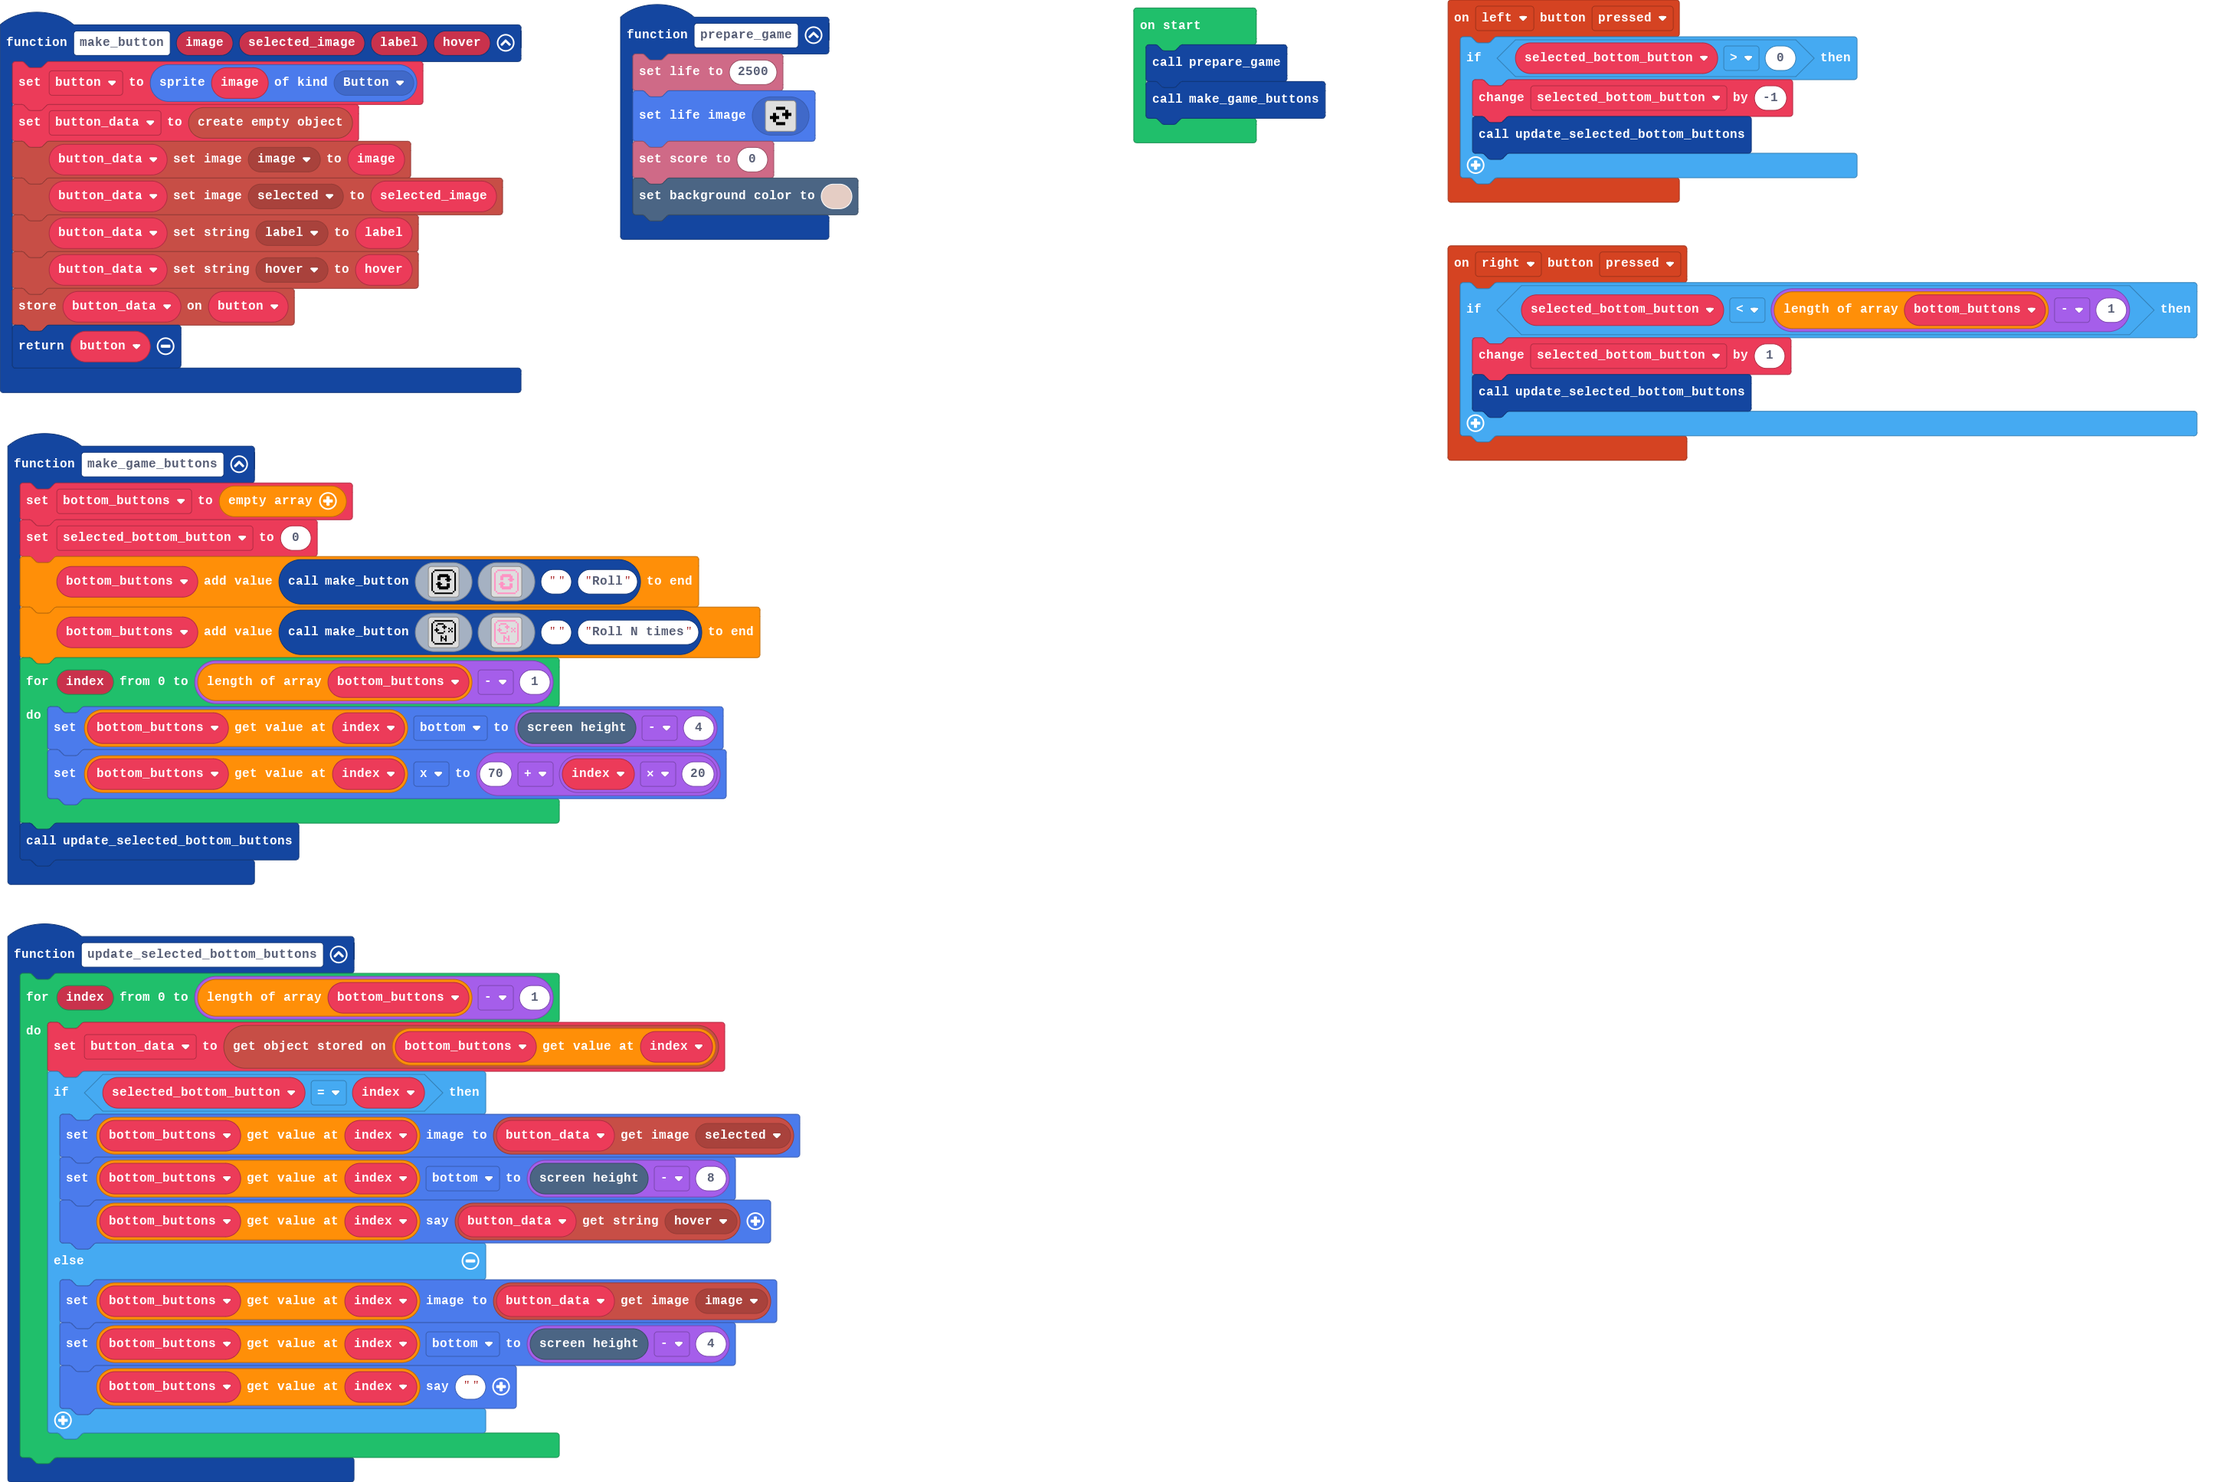
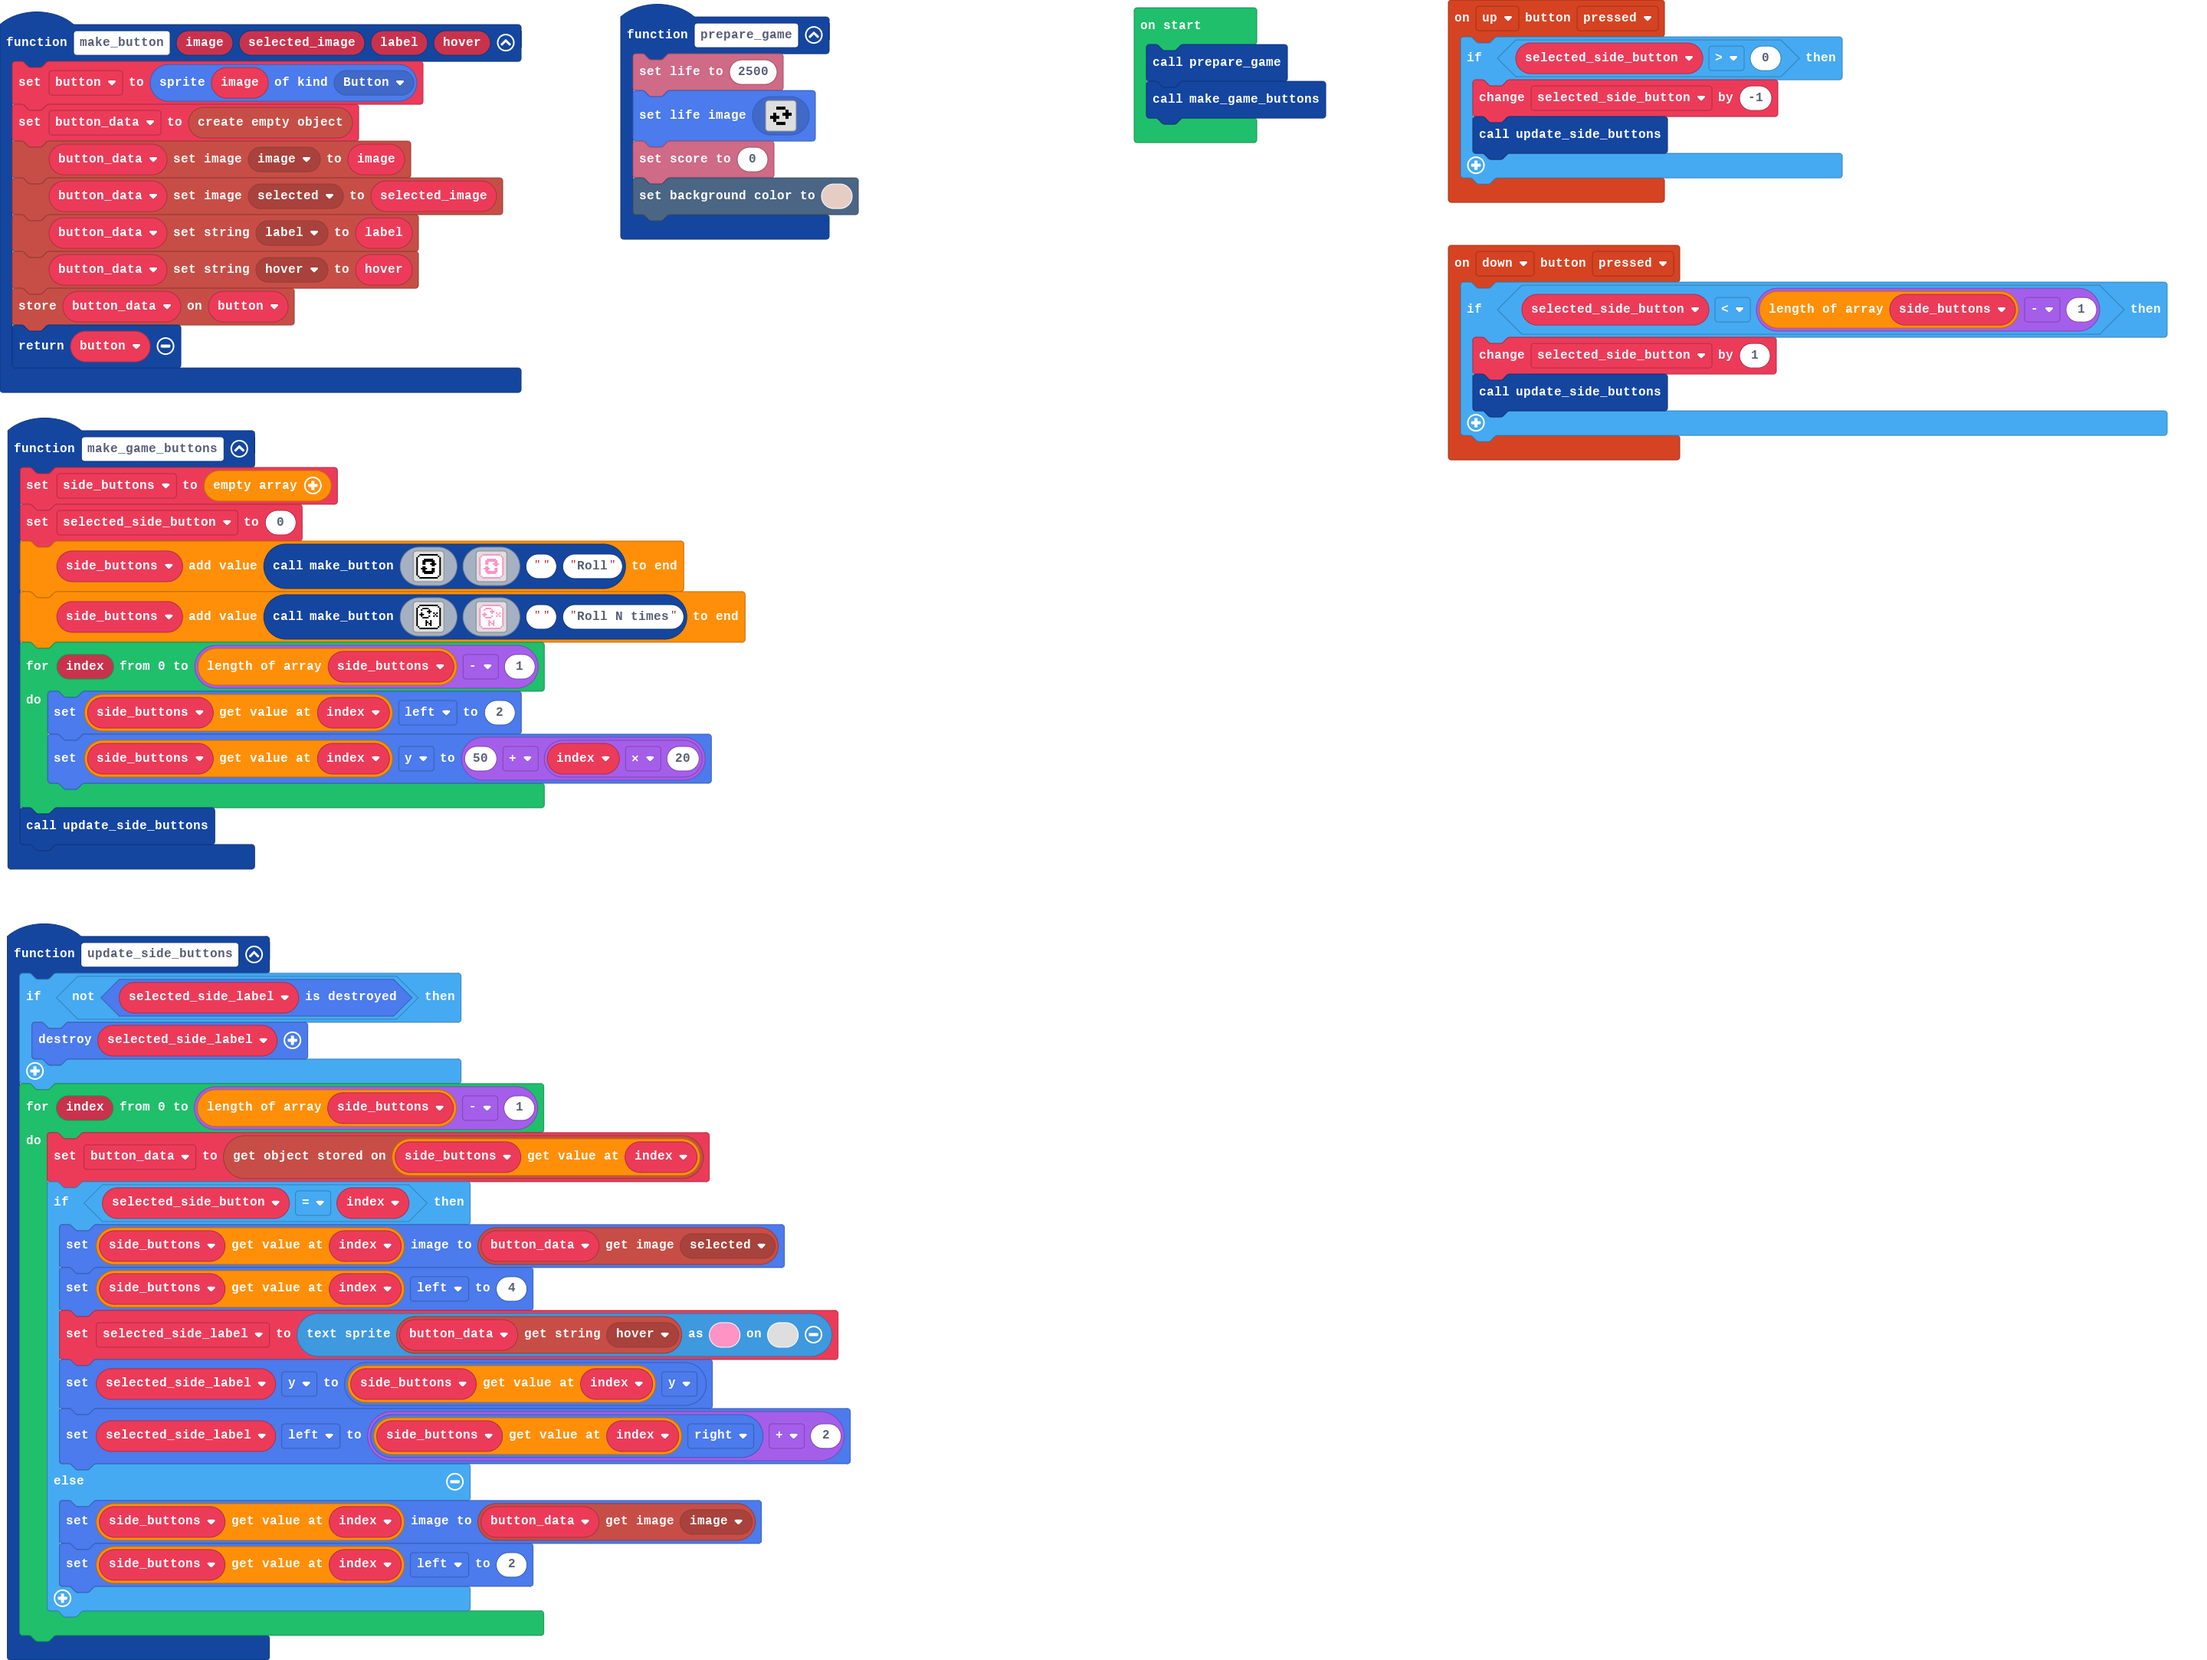
Move buttons back to side

Changed region(s): [[0.0, 0.0, 0.4062, 1.0], [0.5, 0.0, 1.0, 0.3102]]

diff --git a/images.g.ts b/images.g.ts
@@ -17,77 +17,77 @@ f f f . . f .
             case "image2":
             case "roll_button":return img`
 . . f f f f f f f f f f f f . . 
-. f . . . . . . . . . . . . f . 
-f . . . . . . . . . . . . . . f 
-f . . . . f f f f f f . . . . f 
-f . . . f f f f f f f f . . . f 
-f . . . f f . . . . f f . . . f 
-f . . . f f . . . f f f f . . f 
-f . . . . . . . . . f f . . . f 
-f . . . f f . . . . . . . . . f 
-f . . f f f f . . . f f . . . f 
-f . . . f f . . . . f f . . . f 
-f . . . f f f f f f f f . . . f 
-f . . . . f f f f f f . . . . f 
-f . . . . . . . . . . . . . . f 
-. f . . . . . . . . . . . . f . 
+. f 1 1 1 1 1 1 1 1 1 1 1 1 f . 
+f 1 1 1 1 1 1 1 1 1 1 1 1 1 1 f 
+f 1 1 1 1 f f f f f f 1 1 1 1 f 
+f 1 1 1 f f f f f f f f 1 1 1 f 
+f 1 1 1 f f 1 1 1 1 f f 1 1 1 f 
+f 1 1 1 f f 1 1 1 f f f f 1 1 f 
+f 1 1 1 1 1 1 1 1 1 f f 1 1 1 f 
+f 1 1 1 f f 1 1 1 1 1 1 1 1 1 f 
+f 1 1 f f f f 1 1 1 f f 1 1 1 f 
+f 1 1 1 f f 1 1 1 1 f f 1 1 1 f 
+f 1 1 1 f f f f f f f f 1 1 1 f 
+f 1 1 1 1 f f f f f f 1 1 1 1 f 
+f 1 1 1 1 1 1 1 1 1 1 1 1 1 1 f 
+. f 1 1 1 1 1 1 1 1 1 1 1 1 f . 
+. . f f f f f f f f f f f f . . 
+`;
+            case "image4":
+            case "roll_x_times_button":return img`
+. . f f f f f f f f f f f f . . 
+. f 1 1 1 1 1 1 1 1 1 1 1 1 f . 
+f 1 1 1 f f f f 1 1 1 1 1 1 1 f 
+f 1 1 f 1 1 1 1 f 1 1 1 1 1 1 f 
+f 1 1 1 1 1 1 f f f 1 1 1 1 1 f 
+f 1 1 f 1 1 1 1 f 1 1 f 1 f 1 f 
+f 1 f f f 1 1 1 1 1 1 1 f 1 1 f 
+f 1 1 f 1 1 1 1 f 1 1 f 1 f 1 f 
+f 1 1 1 f f f f 1 1 1 1 1 1 1 f 
+f 1 1 1 1 1 1 1 1 1 1 1 1 1 1 f 
+f 1 1 1 1 1 f 1 1 f 1 1 1 1 1 f 
+f 1 1 1 1 1 f f 1 f 1 1 1 1 1 f 
+f 1 1 1 1 1 f 1 f f 1 1 1 1 1 f 
+f 1 1 1 1 1 f 1 1 f 1 1 1 1 1 f 
+. f 1 1 1 1 1 1 1 1 1 1 1 1 f . 
 . . f f f f f f f f f f f f . . 
 `;
             case "image3":
             case "roll_button_selected":return img`
 . . 3 3 3 3 3 3 3 3 3 3 3 3 . . 
-. 3 . . . . . . . . . . . . 3 . 
-3 . . . . . . . . . . . . . . 3 
-3 . . . . 3 3 3 3 3 3 . . . . 3 
-3 . . . 3 3 3 3 3 3 3 3 . . . 3 
-3 . . . 3 3 . . . . 3 3 . . . 3 
-3 . . . 3 3 . . . 3 3 3 3 . . 3 
-3 . . . . . . . . . 3 3 . . . 3 
-3 . . . 3 3 . . . . . . . . . 3 
-3 . . 3 3 3 3 . . . 3 3 . . . 3 
-3 . . . 3 3 . . . . 3 3 . . . 3 
-3 . . . 3 3 3 3 3 3 3 3 . . . 3 
-3 . . . . 3 3 3 3 3 3 . . . . 3 
-3 . . . . . . . . . . . . . . 3 
-. 3 . . . . . . . . . . . . 3 . 
+. 3 1 1 1 1 1 1 1 1 1 1 1 1 3 . 
+3 1 1 1 1 1 1 1 1 1 1 1 1 1 1 3 
+3 1 1 1 1 3 3 3 3 3 3 1 1 1 1 3 
+3 1 1 1 3 3 3 3 3 3 3 3 1 1 1 3 
+3 1 1 1 3 3 1 1 1 1 3 3 1 1 1 3 
+3 1 1 1 3 3 1 1 1 3 3 3 3 1 1 3 
+3 1 1 1 1 1 1 1 1 1 3 3 1 1 1 3 
+3 1 1 1 3 3 1 1 1 1 1 1 1 1 1 3 
+3 1 1 3 3 3 3 1 1 1 3 3 1 1 1 3 
+3 1 1 1 3 3 1 1 1 1 3 3 1 1 1 3 
+3 1 1 1 3 3 3 3 3 3 3 3 1 1 1 3 
+3 1 1 1 1 3 3 3 3 3 3 1 1 1 1 3 
+3 1 1 1 1 1 1 1 1 1 1 1 1 1 1 3 
+. 3 1 1 1 1 1 1 1 1 1 1 1 1 3 . 
 . . 3 3 3 3 3 3 3 3 3 3 3 3 . . 
-`;
-            case "image4":
-            case "roll_x_times_button":return img`
-. . f f f f f f f f f f f f . . 
-. f . . . . . . . . . . . . f . 
-f . . . f f f f . . . . . . . f 
-f . . f . . . . f . . . . . . f 
-f . . . . . . f f f . . . . . f 
-f . . f . . . . f . . f . f . f 
-f . f f f . . . . . . . f . . f 
-f . . f . . . . f . . f . f . f 
-f . . . f f f f . . . . . . . f 
-f . . . . . . . . . . . . . . f 
-f . . . . . f . . f . . . . . f 
-f . . . . . f f . f . . . . . f 
-f . . . . . f . f f . . . . . f 
-f . . . . . f . . f . . . . . f 
-. f . . . . . . . . . . . . f . 
-. . f f f f f f f f f f f f . . 
 `;
             case "image5":
             case "roll_x_times_button_selected":return img`
 . . 3 3 3 3 3 3 3 3 3 3 3 3 . . 
-. 3 . . . . . . . . . . . . 3 . 
-3 . . . 3 3 3 3 . . . . . . . 3 
-3 . . 3 . . . . 3 . . . . . . 3 
-3 . . . . . . 3 3 3 . . . . . 3 
-3 . . 3 . . . . 3 . . 3 . 3 . 3 
-3 . 3 3 3 . . . . . . . 3 . . 3 
-3 . . 3 . . . . 3 . . 3 . 3 . 3 
-3 . . . 3 3 3 3 . . . . . . . 3 
-3 . . . . . . . . . . . . . . 3 
-3 . . . . . 3 . . 3 . . . . . 3 
-3 . . . . . 3 3 . 3 . . . . . 3 
-3 . . . . . 3 . 3 3 . . . . . 3 
-3 . . . . . 3 . . 3 . . . . . 3 
-. 3 . . . . . . . . . . . . 3 . 
+. 3 1 1 1 1 1 1 1 1 1 1 1 1 3 . 
+3 1 1 1 3 3 3 3 1 1 1 1 1 1 1 3 
+3 1 1 3 1 1 1 1 3 1 1 1 1 1 1 3 
+3 1 1 1 1 1 1 3 3 3 1 1 1 1 1 3 
+3 1 1 3 1 1 1 1 3 1 1 3 1 3 1 3 
+3 1 3 3 3 1 1 1 1 1 1 1 3 1 1 3 
+3 1 1 3 1 1 1 1 3 1 1 3 1 3 1 3 
+3 1 1 1 3 3 3 3 1 1 1 1 1 1 1 3 
+3 1 1 1 1 1 1 1 1 1 1 1 1 1 1 3 
+3 1 1 1 1 1 3 1 1 3 1 1 1 1 1 3 
+3 1 1 1 1 1 3 3 1 3 1 1 1 1 1 3 
+3 1 1 1 1 1 3 1 3 3 1 1 1 1 1 3 
+3 1 1 1 1 1 3 1 1 3 1 1 1 1 1 3 
+. 3 1 1 1 1 1 1 1 1 1 1 1 1 3 . 
 . . 3 3 3 3 3 3 3 3 3 3 3 3 . . 
 `;
         }

diff --git a/main.ts b/main.ts
@@ -9,28 +9,46 @@ namespace ImageProp {
     export const image = ImageProp.create()
     export const selected = ImageProp.create()
 }
+function update_side_buttons () {
+    if (!(spriteutils.isDestroyed(selected_side_label))) {
+        selected_side_label.destroy()
+    }
+    for (let index = 0; index <= side_buttons.length - 1; index++) {
+        button_data = blockObject.getStoredObject(side_buttons[index])
+        if (selected_side_button == index) {
+            side_buttons[index].setImage(blockObject.getImageProperty(button_data, ImageProp.selected))
+            side_buttons[index].left = 4
+            selected_side_label = textsprite.create(blockObject.getStringProperty(button_data, StrProp.hover), 0, 3)
+            selected_side_label.y = side_buttons[index].y
+            selected_side_label.left = side_buttons[index].right + 2
+        } else {
+            side_buttons[index].setImage(blockObject.getImageProperty(button_data, ImageProp.image))
+            side_buttons[index].left = 2
+        }
+    }
+}
+controller.up.onEvent(ControllerButtonEvent.Pressed, function () {
+    if (selected_side_button > 0) {
+        selected_side_button += -1
+        update_side_buttons()
+    }
+})
 function prepare_game () {
     info.setLife(2500)
     spriteutils.setLifeImage(assets.image`life_image`)
     info.setScore(0)
     scene.setBackgroundColor(13)
 }
-controller.left.onEvent(ControllerButtonEvent.Pressed, function () {
-    if (selected_bottom_button > 0) {
-        selected_bottom_button += -1
-        update_selected_bottom_buttons()
-    }
-})
 function make_game_buttons () {
-    bottom_buttons = []
-    selected_bottom_button = 0
-    bottom_buttons.push(make_button(assets.image`roll_button`, assets.image`roll_button_selected`, "", "Roll"))
-    bottom_buttons.push(make_button(assets.image`roll_x_times_button`, assets.image`roll_x_times_button_selected`, "", "Roll N times"))
-    for (let index = 0; index <= bottom_buttons.length - 1; index++) {
-        bottom_buttons[index].bottom = scene.screenHeight() - 4
-        bottom_buttons[index].x = 70 + index * 20
+    side_buttons = []
+    selected_side_button = 0
+    side_buttons.push(make_button(assets.image`roll_button`, assets.image`roll_button_selected`, "", "Roll"))
+    side_buttons.push(make_button(assets.image`roll_x_times_button`, assets.image`roll_x_times_button_selected`, "", "Roll N times"))
+    for (let index = 0; index <= side_buttons.length - 1; index++) {
+        side_buttons[index].left = 2
+        side_buttons[index].y = 50 + index * 20
     }
-    update_selected_bottom_buttons()
+    update_side_buttons()
 }
 function make_button (image2: Image, selected_image: Image, label: string, hover: string) {
     button = sprites.create(image2, SpriteKind.Button)
@@ -42,29 +60,16 @@ function make_button (image2: Image, selected_image: Image, label: string, hover
     blockObject.storeOnSprite(button_data, button)
     return button
 }
-function update_selected_bottom_buttons () {
-    for (let index = 0; index <= bottom_buttons.length - 1; index++) {
-        button_data = blockObject.getStoredObject(bottom_buttons[index])
-        if (selected_bottom_button == index) {
-            bottom_buttons[index].setImage(blockObject.getImageProperty(button_data, ImageProp.selected))
-            bottom_buttons[index].bottom = scene.screenHeight() - 8
-            bottom_buttons[index].sayText(blockObject.getStringProperty(button_data, StrProp.hover))
-        } else {
-            bottom_buttons[index].setImage(blockObject.getImageProperty(button_data, ImageProp.image))
-            bottom_buttons[index].bottom = scene.screenHeight() - 4
-            bottom_buttons[index].sayText("")
-        }
-    }
-}
-controller.right.onEvent(ControllerButtonEvent.Pressed, function () {
-    if (selected_bottom_button < bottom_buttons.length - 1) {
-        selected_bottom_button += 1
-        update_selected_bottom_buttons()
+controller.down.onEvent(ControllerButtonEvent.Pressed, function () {
+    if (selected_side_button < side_buttons.length - 1) {
+        selected_side_button += 1
+        update_side_buttons()
     }
 })
-let button_data: blockObject.BlockObject = null
 let button: Sprite = null
-let bottom_buttons: Sprite[] = []
-let selected_bottom_button = 0
+let selected_side_button = 0
+let button_data: blockObject.BlockObject = null
+let side_buttons: Sprite[] = []
+let selected_side_label: TextSprite = null
 prepare_game()
 make_game_buttons()
